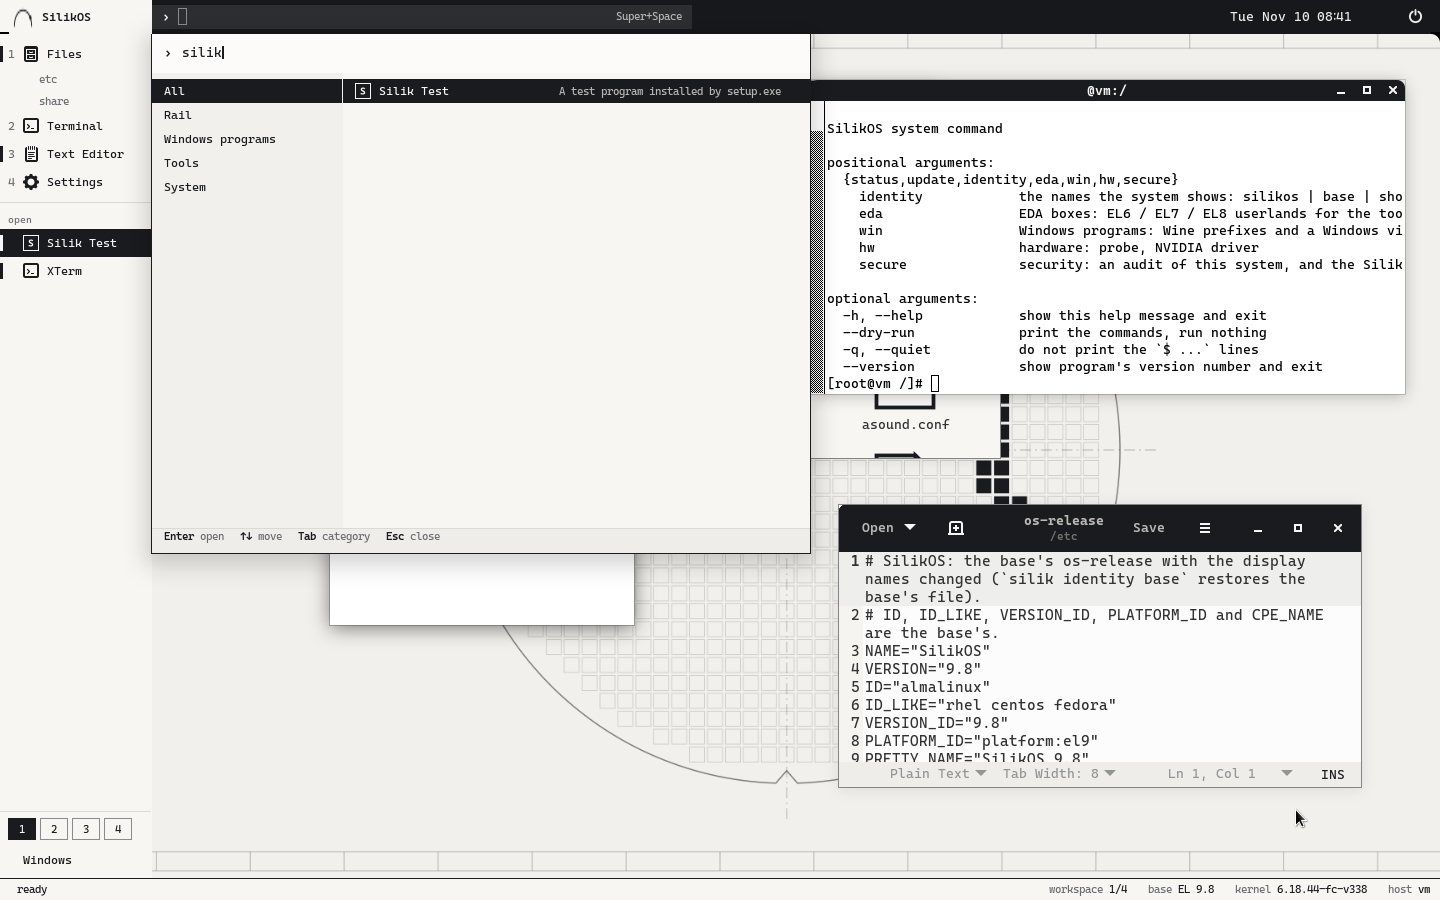
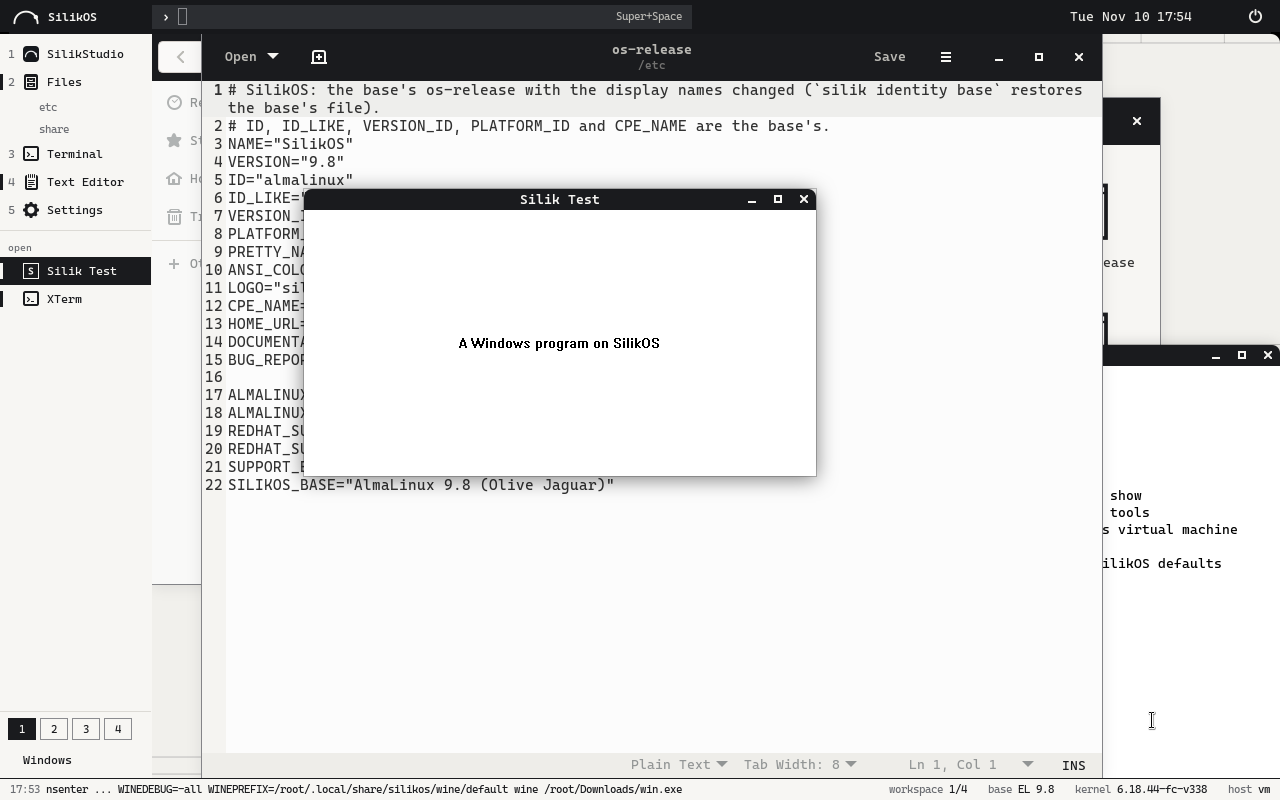
A Windows program runs in its sandbox on the installed system; the four open EDA tools are built
Installation test, run 42864994059: the first sandboxed silik win open ran (exit 0, the file of ~/.ssh hidden,
domain wine_t) and the unlock prompt is drawn with the SilikOS stylesheet. The one failed check was the test
comparing a Windows line ending: fixed.

The test now also: opens a Win32 program with a window (tests/install/window.c) and looks for it in the
session's window list; types its path in the COMMAND bar and saves the screen; wakes the lock screen with the
pointer before its picture; makes KLayout, Magic and Xschem do a small job on the installed system.

In the test container (AlmaLinux 9.8, gnome-shell 40.10, silik-wine 11.0): Wine's prefix set-up waits at the
Mono installer's dialog without the overrides and takes 6 s with them; a real Wine window is in the rail under
its own name (docs/img/windows-program.png is now that picture).

EDA tools, run 42859564822: klayout 0.30.13 and ngspice 47 built and passed their trials; the release eda-tools
has the four packages.

docs/STATUS.md and docs/WINDOWS.md say what was run and what was not.

Claude-Session: https://claude.ai/code/session_017vAYsxEtDVxrRbukVjuokZ

Changed region(s): [[0.0, 0.0, 1.0, 1.0], [0.375, 0.4062, 0.5, 0.4375], [0.375, 0.1562, 0.4688, 0.1875]]

diff --git a/tests/install/window.c b/tests/install/window.c
@@ -1,0 +1,32 @@
+/* tests/install/window.c: a small Windows program with a window, for the installation test. Opened from the COMMAND
+ * bar (a typed path), it must draw on the installed system's screen and appear in the rail as a program of its own.
+ * It closes by itself after ten minutes. */
+#include <windows.h>
+
+static LRESULT CALLBACK proc(HWND w, UINT m, WPARAM wp, LPARAM lp) {
+    if (m == WM_PAINT) {
+        PAINTSTRUCT ps; HDC dc = BeginPaint(w, &ps); RECT r;
+        GetClientRect(w, &r);
+        DrawTextA(dc, "A Windows program on SilikOS", -1, &r, DT_CENTER | DT_VCENTER | DT_SINGLELINE);
+        EndPaint(w, &ps);
+        return 0;
+    }
+    if (m == WM_TIMER || m == WM_DESTROY) { PostQuitMessage(0); return 0; }
+    return DefWindowProcA(w, m, wp, lp);
+}
+
+int WINAPI WinMain(HINSTANCE inst, HINSTANCE prev, LPSTR cmd, int show) {
+    WNDCLASSA c = {0};
+    MSG m;
+    HWND w;
+    (void)prev; (void)cmd;
+    c.lpfnWndProc = proc; c.hInstance = inst; c.lpszClassName = "SilikTest";
+    c.hbrBackground = (HBRUSH)(COLOR_WINDOW + 1); c.hCursor = LoadCursor(NULL, IDC_ARROW);
+    RegisterClassA(&c);
+    w = CreateWindowA("SilikTest", "Silik Test", WS_OVERLAPPEDWINDOW, 300, 180, 520, 300, NULL, NULL, inst, NULL);
+    if (!w) return 3;
+    ShowWindow(w, show);
+    SetTimer(w, 1, 600000, NULL);
+    while (GetMessageA(&m, NULL, 0, 0) > 0) { TranslateMessage(&m); DispatchMessageA(&m); }
+    return 0;
+}

diff --git a/docs/STATUS.md b/docs/STATUS.md
@@ -45,7 +45,8 @@ Docker Hub, repo.almalinux.org, dl.fedoraproject.org and vault.centos.org).
 | `silik win open` end to end, sandboxed | on the build host (Ubuntu 24.04, kernel 6.18, Wine 9.0, bubblewrap 0.9.0) as an unprivileged user, with our own small test programs; also with EL 9's bwrap 0.6.3 / nsenter / setpriv binaries on that kernel | first use makes the prefix and its sandbox and runs the program; a window draws; `.bat` / `.cmd` / `.lnk` run; exit codes pass through. Inside: `~/.ssh` and `~/Documents` are not there, writes refused in `~/Downloads`, `/usr`, `/etc` and the home, `W:` (`~/Windows`) writable, no capabilities, clean environment; `--no-net` leaves only `lo` |
 | One sandbox per prefix | concurrent runs there | two programs of one prefix run together; a file from a folder the running sandbox does not show is refused (exit 75) and opens once the prefix is idle |
 | An installer becomes an application | own `setup.exe` (a start-menu shortcut) -> `silik win sync` -> `silik win apps`; repeated by hand on the host without the sandbox | `win/silik-test  Silik Test  (default)`; an entry with `Exec=silik win run default -- ...lnk` and `StartupWMClass=siliktest.exe`; uninstalling removes it |
-| A Windows program in the rail and in Start | that generated entry copied into the GNOME session of the container, and a stand-in window with the class Wine gives (`siliktest.exe`, read with `xprop` from the real Wine window on the host) | the window is matched to the entry: "Silik Test" with its framed initial under "open" in the rail, in Start and under "Windows programs" (`docs/img/windows-program.png`). The real Wine window itself was not shown in that session |
+| A Windows program in the rail and in Start | that generated entry copied into the GNOME session of the container, and a stand-in window with the class Wine gives (`siliktest.exe`, read with `xprop` from the real Wine window on the host) | the window is matched to the entry: "Silik Test" with its framed initial under "open" in the rail, in Start and under "Windows programs" (`docs/img/windows-program.png`). The real Wine window itself was not shown in that session (next row) |
+| A real Wine window in the Silik desktop | `silik-wine` 11.0 installed in the container session (AlmaLinux 9.8, gnome-shell 40.10); a Win32 program with a window (`tests/install/window.c`), opened with `silik win open` and by typing its path in the COMMAND bar; sandboxed (bwrap worked in that container) | the COMMAND bar offers "run with Wine, in the sandbox" with the line `silik win open …/win.exe`; the window draws with the ink title bar, and the rail lists it under "open" as "Silik Test" with its framed initial, in inverse video while focused (`docs/img/windows-program.png`); the status bar shows the command. Not yet on an installed system |
 | A double-click in Files | nautilus 40.2 in the container, clicked with xdotool, a logging stand-in for `silik` | `.exe`, `.exe` with the executable bit and `.msi` each ran `silik win open FILE` |
 | The COMMAND bar | `silik-command --list` there | `win/silik-test` with its twin line; a path to an `.exe` becomes `silik win open` |
 | Unit tests, all | `python3 -m unittest discover -s tests` on Python 3.13 (host) and, before the merge of the two branches, 3.9 | 111 / 111 on 3.13 after the merge (74 and 64 on 3.9 on each branch) |
@@ -58,6 +59,14 @@ Docker Hub, repo.almalinux.org, dl.fedoraproject.org and vault.centos.org).
 | **A complete installation and the first boot** | GitHub Actions, workflow CI, run 42836687192 (commit 63ffbc3, 10/11/2026): the ISO built there, installed unattended in a KVM virtual machine (`tests/install/run.sh`), the installed disk booted, `tests/install/check.sh` run by the installed system itself | installed in about ten minutes: 1427 packages, 6.3 G used; the system boots to the test user's session. 31 checks ok, 1 failed (next row): boot entries say SilikOS, `ID` and `/etc/redhat-release` are the base's; the seven packages are there; **SELinux Enforcing**; firewalld active with the default zone `silikos`; sshd not enabled; the security update timer active; `kernel.yama.ptrace_scope` 1 and `kernel.dmesg_restrict` 1 applied; `vsyscall=xonly` on the kernel line; GDM active; the session is X11; the shell extension `silik-shell` ENABLED with 0 `JS ERROR` in the journal; GTK and icon themes `SilikOS`; plymouth's default theme `silikos`; `silik status` runs; podman 5.8.2 and bubblewrap 0.6.3 present; one failed unit, the base's `mcelog` (a virtual CPU) |
 | The installed desktop on its screen | the same run, the virtual machine's screen saved (`docs/img/installed.png`; the last run's pictures: branch `ci-results`) | the Silik layout in a real session: title bar with the mark and the command line, the rail (Files, Terminal, Firefox, Text Editor, Virtual Machine Manager with its framed initial, Settings), workspaces, status bar, the wafer background; **Super+Space opens the COMMAND bar** (through gnome-settings-daemon) with the `sys/secure` entries |
 | `silik secure status` on an installed system | the same run | 9 ok, 1 warn, 2 bad, 1 unknown: bad = the disk is not encrypted (the test does not encrypt) and the test's own automatic login; warn = Secure Boot not possible (the test machine starts through BIOS); unknown = the screen lock, asked as root |
+| The installation test, green from end to end | workflow CI, run 42843110555 (commit b3de047) | 38 checks ok, none failed, the run itself green (the second run had the same report but was marked failed by the test script) |
+| Our own Wine, `silik-wine` 11.0 | workflow Wine, run 42850249493 (commit bf16eb6): built in an `almalinux:9` container from WineHQ's source (`wine/silik-wine.spec`), then installed in a clean `almalinux:9` with the base's repositories and CRB only | builds; installs without EPEL; `wineboot --init` makes a prefix; a 64-bit and a 32-bit Windows program (compiled there with mingw) each print their greeting. Kept as the release `wine-11.0` (one RPM, 73.5 MB); the CI's ISO carries it |
+| Wine on an installed system, with SELinux enforcing | workflow CI, run 42860155060 (commit 8ee438e): the ISO with `silik-wine`, 1433 packages, 7.2 G used | `wine-11.0` in the PATH. EL 9 has `selinuxuser_execmod` off, so Wine does not start in the user's domain: `silik-win` 0.4.0 carries a rule (`silikos_wine.cil`: Wine's three programs are `wine_exec_t`, a user's session enters `wine_t`). Seen there: the rule is loaded, the label is set, a Windows program reads its own domain as `unconfined_u:unconfined_r:wine_t`; **without the sandbox** (`--no-sandbox`) the test program ran from the user's session (exit 0). With the sandbox: not yet, next table |
+| Why the first sandboxed run stopped | `silik-wine` 11.0 in the AlmaLinux 9.8 container with a display (Xvfb), `wineboot --init` on a new prefix, plain and with `WINEDLLOVERRIDES=mscoree,mshtml=` | plain: a window "Wine Mono Installer" opens and waits for an answer (still there at the 150 s limit; WineHQ's Wine offers to download Mono and Gecko, a distribution's Wine does not); with the overrides: the prefix is made in 6 s. `silik` 0.3.1 sets them when it sets a prefix up. A .NET program therefore finds no Mono: not handled yet |
+| The lock screen without the extension | `silikos-desktop` 0.10.0 in the container session: gnome-shell started with user extensions disabled (as on the lock and login screens) and `G_RESOURCE_OVERLAYS` as `/usr/lib/environment.d/60-silikos-shell.conf` sets it, screenshot | the shell's own default stylesheet is then the SilikOS one: ink panel, Cascadia Mono, no logo of the base. Found on the installed system (run 42860155060): its lock screen was stock GNOME with "Activities" and the base's logo |
+| **A Windows program on the installed system, in its sandbox** | workflow CI, run 42864994059 (commit 8498a55; `silik` 0.3.1, `silikos-desktop` 0.10.0; 1434 packages, 7.5 G): `silik win open hello.exe` from the test user's session, SELinux enforcing, kernel 5.14, bubblewrap 0.6.3, Wine 11.0 | first use sets the prefix up and the program runs (exit 0) inside bwrap: it writes to `W:` (`~/Windows`) and **cannot see** a file of `~/.ssh` (`ran secret=hidden`); its SELinux domain is `wine_t`. 45 checks ok; the one marked failed was the test comparing a Windows line ending (fixed). Not seen: a window of a Windows program on that screen (the test program has none) |
+| The unlock prompt on the installed system | the same run: the session locked with Super+L, then a key, the screen saved (branch `ci-results`, `unlock.png`); `G_RESOURCE_OVERLAYS` read from gnome-shell's environment | the prompt is drawn with the SilikOS stylesheet: ink entry, Cascadia Mono, no "Activities", no logo of the base. The lock screen before the key (the clock) was not caught: the screen had gone dark (the test now moves the pointer first) |
+| The open EDA tools for EL 9: KLayout, Magic, Xschem, ngspice | workflow EDA tools (runs 42853105021 and 42859564822, commits cbe7ae4 and 06824e0): each built in `almalinux:9` from upstream's source at the version of `eda/versions`, installed in a clean `almalinux:9` (the base's repositories and CRB only) and given a job without a screen (`eda/trial.sh`) | `klayout-0.30.13` (44.9 MB, 58 minutes to build): a box written to GDS and read back through its Python interface; `ngspice-47` (2.6 MB, with XSPICE): a divider gives 0.5 V and an XSPICE gain block 1 V; `magic-8.3.696` (1.7 MB): a box of metal 1 painted in the `scmos` technology and saved; `xschem-3.4.7` (11.6 MB): installs and reports its version (no schematic drawn). All four in the release `eda-tools`. On an installed system so far: Magic and Xschem installed by the ISO (run 42864994059), not started; KLayout and ngspice not yet (next table). No window of any of them has been seen |
 
 Found by the first complete installation and fixed, **and seen fixed in the second** (run 42840361656, commit 5f1d4f6:
 38 checks ok, none failed): no shell theme had been made and the GTK theme was the fallback, because the theme makers
@@ -79,12 +88,13 @@ Two bugs were found by running `silik eda` for real and fixed: the vault reposit
 
 | What | Why | Who can |
 |---|---|---|
-| A Windows program in the installed system (the sandbox on EL 9's kernel with SELinux) | no Wine on the ISO yet: `silik-wine` built on GitHub in 30 minutes, its trial of two Windows programs failed for a reason not yet read (the trial now reports it) | the next runs of the workflows Wine and CI |
+| A Windows program's window on the installed system's screen (seen in the container session only); a .NET program (no Mono in the prefix: `silik` sets a prefix up without Wine's download dialog) | the test opens one from the COMMAND bar from the next run on; Mono not handled yet | the next CI run; a decision on Mono |
+| KLayout and ngspice on an installed system; any of the four open EDA tools started there; their windows; a PDK (none is shipped) | the ISO of the last CI run was built before their packages existed; the installed system now runs each without a screen | the next CI run; windows and a real design: the Ryzen machine |
 | BIOS (non-UEFI) boot of the ISO | not tried | a VM |
 | The boot splash (plymouth theme `silikos`) on a screen, the About logo, the login logo, the firmware's boot entry name | set and listed, not seen: no real boot here | after the first installation |
 | Places that still name the base | by design: the package source URL in the installer, repository names in `dnf`, `/etc/redhat-release`, `ID=` | — |
 | The login screen itself and its logo (the test logs in by itself), a hardware-accelerated shell, HiDPI scaling of the rail and status bar, several monitors, a full-screen window, UEFI boot of the installed system | the CI machine: BIOS, one 1280x800 screen, no GPU | the Ryzen machine |
-| The login screen in the Silik look | not done: GDM draws with the shell's built-in stylesheet (a file of the `gnome-shell` package), only its logo is set | — |
+| The login screen (GDM's greeter) in the Silik look; the lock screen's clock | the stylesheet overlay (`/usr/lib/environment.d/60-silikos-shell.conf`) should reach the greeter's shell too [A]: not seen, the test logs in by itself; the lock screen's picture was dark | the next CI run (lock screen); the Ryzen machine (greeter) |
 | Icons inside applications other than Files (toolbars use Adwaita's line icons; a program that draws its own colour pictures keeps them); the file-type icons other than folder and text sheet on screen (only rendered to a sheet with librsvg) | not looked at | after the first installation |
 | ES strings of the shell extension on screen; Start with a full application set (the container has seven) and its scrolling; the Super key opening Start under a real session (here it was sent with xdotool); the overview's application grid beyond two icons; GTK 4 / Qt applications (they do not read the GTK 3 theme) | not run | after the first installation |
 | The clock's colon | Cascadia Mono has no U+2236: without another font it drew as a box in the container; with `dejavu-sans-fonts` (now required) it draws | — |
@@ -94,9 +104,8 @@ Two bugs were found by running `silik eda` for real and fixed: the vault reposit
 | The disk-encryption and Secure Boot rows of `silik secure status` on a machine that has them; `silik secure apply` with the real `sudo`; the screen actually locking | the CI machine has neither LUKS nor UEFI | the Ryzen machine |
 | SilikStudio's file dialogs, a second launch handing its files over, the unsaved-work question, the 3D workspace (WebGL), a GPU, its ecoRacing and MotoSpirit packages; its speed on the Ryzen | not run: one window on software rendering in a container; no GPU | the Ryzen machine |
 | Cadence / Synopsys tools | no installers or licences | the owner |
-| **Wine from EPEL on EL 9: not installable today** (decision 10/11: we build our own, `silik-wine`, row above) | EPEL 9's `wine-core-8.0-1.el9` needs `mesa-libOSMesa`, which nothing provides on AlmaLinux 9.8 (seen with `dnf install --assumeno wine`; no newer build in EPEL testing). The kickstart's `Recommends: wine` is skipped silently, so an installed SilikOS has no Wine: `silik win open` works only once Wine comes from somewhere | a decision: our own Wine build, or Flatpak |
-| The sandbox on EL 9's kernel 5.14 with SELinux; in a root container bwrap may not make namespaces | only EL 9's userland on kernel 6.18 was run | after the first installation |
-| A real `.msi`, a third-party installer, 32-bit programs, sound, GPU, a notification on screen | not run | with a real Wine |
+| **Wine from EPEL on EL 9: not installable today** (decision 10/11: we build our own, `silik-wine`, row above) | EPEL 9's `wine-core-8.0-1.el9` needs `mesa-libOSMesa`, which nothing provides on AlmaLinux 9.8 (seen with `dnf install --assumeno wine`; no newer build in EPEL testing). The kickstart's `Recommends: wine` is skipped silently, so an installed SilikOS has no Wine: `silik win open` works only once Wine comes from somewhere | decided: our own build |
+| A real `.msi`, a third-party installer, sound, GPU, a notification on screen; a 32-bit program on the installed system (one ran in the Wine trial's container) | not run | the Ryzen machine |
 | The Windows virtual machine, RDP RemoteApp, Altium | no KVM, no Windows, no licences | the owner |
 | NVIDIA driver (RTX 3050), hybrid graphics, Wi-Fi, suspend | hardware | the owner |
 | The passt port forward of `silik win vm create`, `virt-install` option names | not run | the Ryzen machine |

diff --git a/docs/WINDOWS.md b/docs/WINDOWS.md
@@ -124,11 +124,16 @@ Consequences to know:
 
 ## Limits
 
-- **Wine is not installable from EPEL 9 on EL 9.8 today** (seen 10/11/2026 in an AlmaLinux 9.8 container with
-  BaseOS, AppStream, CRB, extras and EPEL: `wine-core-8.0-1.el9` needs `mesa-libOSMesa`, which EL 9.8's Mesa 25 no
-  longer builds). `silik-win` only recommends `wine`, so the installation goes on without it and nothing says so:
-  `silik win open` then answers "Wine is not installed". Where Wine comes from is an open decision (a rebuild of the
-  package, a newer one). Everything in "run so far" below was run with Ubuntu's Wine 9.0.
+- **Wine is our own build**, `silik-wine` (Wine 11.0 from WineHQ's source, under `/opt/silik-wine`, built by the
+  workflow Wine and carried by the ISO). EPEL 9's Wine is not installable on EL 9.8 (seen 10/11/2026:
+  `wine-core-8.0-1.el9` needs `mesa-libOSMesa`, which EL 9.8's Mesa 25 no longer builds).
+- EL 9's SELinux policy does not let a user's program run Wine's kind of code (`selinuxuser_execmod` is off):
+  `silik-win` carries a rule (`silikos_wine.cil`) that gives Wine's three programs the policy's own Wine domain
+  (`wine_t`). The boolean stays off for everything else.
+- **No .NET (Mono) and no HTML engine (Gecko) in a new prefix.** WineHQ's Wine offers to download them with a dialog
+  the first time a prefix is made; behind a double-click that dialog stopped the first program (seen on the installed
+  system and in a container). `silik` sets a prefix up with `WINEDLLOVERRIDES=mscoree,mshtml=`, so nothing is asked
+  and nothing is downloaded. A .NET program does not start until Mono is put in its prefix (not handled yet).
 - Kernel-mode drivers do not exist under Wine [A: Wine's design, none tried here]: anti-cheat and copy-protection
   (DRM) drivers, and the drivers of hardware keys. Programs that insist on them need the virtual machine.
 - USB dongles (licence keys), serial ports, programmers and debug probes: the sandbox passes no USB or serial
@@ -177,7 +182,11 @@ purpose (a console program, a window, an installer that makes a start-menu short
   (nautilus 40.2) on an `.exe`, on one with the executable bit, and on an `.msi` runs `silik win open FILE`; GLib
   launches a synced entry with the right arguments.
 
-Not run: Wine on EL 9 itself (not installable, above) and so EPEL's Wine 8.0 with any of this; EL 9's kernel 5.14
-and SELinux with the sandbox; the rail and the applications list of the real shell with a Wine window; sound, a GPU,
-NVIDIA devices, a Wayland session, a login session (GDM); a real `.msi`; 32-bit programs; a real third-party
-installer; the virtual machine route, Altium.
+Run on an installed SilikOS (the CI's virtual machine, run 42864994059, 10/11/2026: kernel 5.14, SELinux enforcing,
+bubblewrap 0.6.3, `silik-wine` 11.0), from the test user's session: the first `silik win open hello.exe` sets the
+prefix up and runs the program in its sandbox (exit 0); the program writes to `W:\` and does not see a file of
+`~/.ssh`; its SELinux domain is `wine_t`.
+
+Not run: the rail and the applications list of the real shell with a Wine window; sound, a GPU, NVIDIA devices, a
+Wayland session; a real `.msi`; a 32-bit program on the installed system (one ran in the Wine workflow's container);
+a real third-party installer; a .NET program; the virtual machine route, Altium.

diff --git a/docs/EDA.md b/docs/EDA.md
@@ -61,7 +61,8 @@ EPEL 9. SilikOS builds each from its authors' unmodified source at the tag writt
 (`tools/build_eda.sh NAME` on EL 9, `eda/NAME.spec`), tries it in a clean EL 9 (`eda/trial.sh`: ngspice solves a
 divider and an XSPICE gain block, Magic paints and saves a cell, KLayout writes a GDS file and reads it back) and
 keeps the package in the release `eda-tools` (workflow "EDA tools"). `tools/build_iso.sh` puts whatever packages
-are in `build/extra/` into the ISO, so the installed system has them and they show under Engineering in Start.
+are in `build/extra/` into the ISO, so the installed system has them (each brings a desktop entry; not yet
+seen in Start).
 Each keeps its own licence, installed with the package. `docs/STATUS.md` says which of this has been run.
 
 To change a version: the tag in `eda/versions`. To add a tool: a line there, `eda/NAME.spec`, a case in
